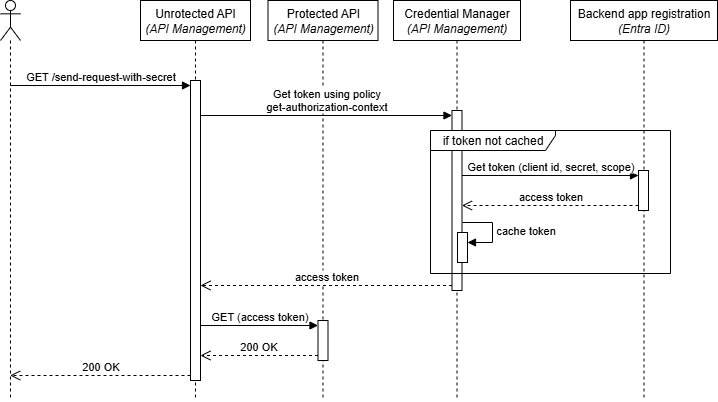
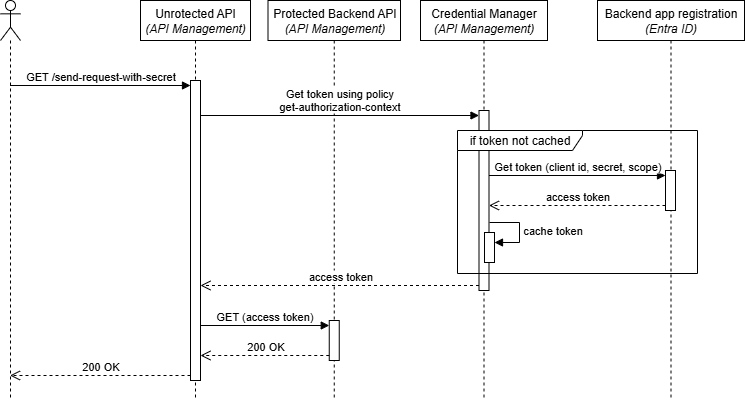
Rename 'Protected API' to 'Protected Backend API'

diff --git a/demos/demo.md b/demos/demo.md
@@ -2,7 +2,7 @@
 
 This demo shows how to call a backend API in Azure API Management using OAuth.
 
-The template deployes an Azure API Management service with two APIs: one unprotected and one protected with OAuth. It also deploys an app registration in Entra ID for the backend (protected API) and one for the client app registration (used by unprotected API). A secret and certificate are generated on the client app registration and stored in Key Vault to be used by the unprotected API. See the following diagram for an overview:
+The template deployes an Azure API Management service with two APIs: one unprotected and one protected with OAuth. It also deploys an app registration in Entra ID for the backend (Protected Backend API) and one for the client app registration (used by unprotected API). A secret and certificate are generated on the client app registration and stored in Key Vault to be used by the unprotected API. See the following diagram for an overview:
 
 ![Overview](https://raw.githubusercontent.com/ronaldbosma/call-apim-backend-with-oauth/refs/heads/main/images/diagrams-overview.png)
 
@@ -34,9 +34,9 @@ Before you start testing the scenarios, you need to prepare the test file:
 
 Let's start by understanding what makes one API protected and the other unprotected and how the app registrations are configured.
 
-**Protected API policy**
+**Protected Backend API policy**
 
-The protected API uses the `validate-azure-ad-token` policy to enforce OAuth authentication. This policy:
+The Protected Backend API uses the `validate-azure-ad-token` policy to enforce OAuth authentication. This policy:
 - Validates that the JWT token was issued by the correct Entra ID tenant
 - Checks that the token's audience matches the backend app registration 
 - Requires the `Sample.Read` role in the token's claims
@@ -45,7 +45,7 @@ You can find this policy in [protected-api.xml](https://github.com/ronaldbosma/c
 
 **App registration**
 
-The [backend-app-registration.bicep](https://github.com/ronaldbosma/call-apim-backend-with-oauth/blob/main/infra/modules/entra-id/backend-app-registration.bicep) file creates an Entra ID app registration for the protected API. 
+The [backend-app-registration.bicep](https://github.com/ronaldbosma/call-apim-backend-with-oauth/blob/main/infra/modules/entra-id/backend-app-registration.bicep) file creates an Entra ID app registration for the Protected Backend API. 
 This app registration defines the Application ID URI (used as the OAuth audience) and the available app roles (`Sample.Read`).
 
 **App registration role assignment**
@@ -56,30 +56,30 @@ You can see how this role assignment is configured in [assign-app-roles.bicep](h
 
 **Unprotected API structure**
 
-The unprotected API doesn't require authentication and acts as a proxy to demonstrate different ways of calling the protected API. 
-Each operation in this API forwards requests to the protected API using a different authentication approach.
+The unprotected API doesn't require authentication and acts as a proxy to demonstrate different ways of calling the Protected Backend API. 
+Each operation in this API forwards requests to the Protected Backend API using a different authentication approach.
 
 
 ### Demonstrate the problem
 
-**Call protected API without authentication**
+**Call Protected Backend API without authentication**
 
-Execute the first request `Operation that will call the protected API without any authentication (should fail)` in the `tests.http` file.
+Execute the first request `Operation that will call the Protected Backend API without any authentication (should fail)` in the `tests.http` file.
 
 ![Sequence Diagram - Without Authentication](https://raw.githubusercontent.com/ronaldbosma/call-apim-backend-with-oauth/refs/heads/main/images/diagrams-without-authentication.png)
 
-You'll receive a 401 Unauthorized response. This shows that the protected API can't be called without proper OAuth authentication.
+You'll receive a 401 Unauthorized response. This shows that the Protected Backend API can't be called without proper OAuth authentication.
 
 
 ### Solution 1: Credential Manager
 
 **Execute the Credential Manager scenario**
 
-Execute the second request `Operation that will call the protected API using the Credential Manager` in the `tests.http` file.
+Execute the second request `Operation that will call the Protected Backend API using the Credential Manager` in the `tests.http` file.
 
 ![Sequence Diagram - Credential Manager](https://raw.githubusercontent.com/ronaldbosma/call-apim-backend-with-oauth/refs/heads/main/images/diagrams-credential-manager.png)
 
-You'll receive a 200 OK response with details about the bearer token used to call the protected API.
+You'll receive a 200 OK response with details about the bearer token used to call the Protected Backend API.
 
 **Review the Credential Manager configuration**
 
@@ -105,7 +105,7 @@ The Credential Manager handles all the complexity of token acquisition, caching 
 
 **Execute the client secret scenario**
 
-Execute the third request `Operation that will call the protected API using the send-request policy with a secret` in the `tests.http` file.
+Execute the third request `Operation that will call the Protected Backend API using the send-request policy with a secret` in the `tests.http` file.
 
 ![Sequence Diagram - Send Request with Secret](https://raw.githubusercontent.com/ronaldbosma/call-apim-backend-with-oauth/refs/heads/main/images/diagrams-send-request-with-secret.png)
 
@@ -119,7 +119,7 @@ Open [send-request-with-secret.xml](https://github.com/ronaldbosma/call-apim-bac
 1. **Token acquisition**: If no cached token exists, it uses `send-request` to call the Entra ID token endpoint with the client credentials flow
 1. **Error handling**: If token retrieval fails, the error is traced and a 500 response is returned (this explicit error tracing doesn't happen by default)
 1. **Caching**: Successful tokens are cached for 90% of their lifetime to prevent expiration issues
-1. **Authorization header**: The token is added to the Authorization header before calling the protected API
+1. **Authorization header**: The token is added to the Authorization header before calling the Protected Backend API
 
 The client secret is retrieved from Azure Key Vault using API Management's named values feature.
 
@@ -128,7 +128,7 @@ The client secret is retrieved from Azure Key Vault using API Management's named
 
 **Execute the client certificate scenario**
 
-Execute the fourth request `Operation that will call the protected API using the send-request policy with a certificate (client_assertion)` in the `tests.http` file.
+Execute the fourth request `Operation that will call the Protected Backend API using the send-request policy with a certificate (client_assertion)` in the `tests.http` file.
 
 ![Sequence Diagram - Send Request with Certificate](https://raw.githubusercontent.com/ronaldbosma/call-apim-backend-with-oauth/refs/heads/main/images/diagrams-send-request-with-certificate.png)
 

diff --git a/README.md b/README.md
@@ -13,12 +13,12 @@ A secret and certificate are created for the client app registration and stored 
 
 An API Management service is deployed with two APIs:
 
-- **Protected API**: A backend API that's protected with OAuth. 
+- **Protected Backend API**: A backend API that's protected with OAuth. 
   It requires an access token to be retrieved from Entra ID before it can be called.  
   _(This example uses an API in the same API Management service, but this can be any API that requires OAuth authentication.)_
 
 - **Unprotected API**: An API that's not protected with OAuth. 
-  It can be called without an access token. This API demonstrates how to call the protected API using the following methods:
+  It can be called without an access token. This API demonstrates how to call the Protected Backend API using the following methods:
 
   1. Use the [Credential Manager](https://learn.microsoft.com/en-us/azure/api-management/credentials-overview) to retrieve an access token for the backend API.  
      See [credential-manager.bicep](src/apis/unprotected-api/credential-manager.bicep) for the Credential Manager configuration and [credential-manager.xml](src/apis/unprotected-api/credential-manager.xml) on how to use it in an API Management policy.
